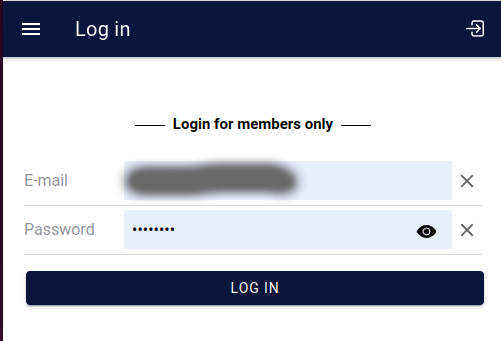
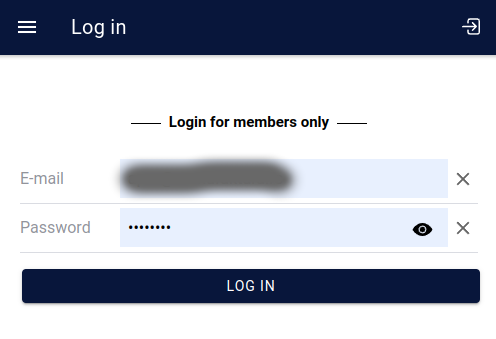
images changed

diff --git a/docs/source/viewer.rst b/docs/source/viewer.rst
@@ -15,7 +15,7 @@ When configuring the application, it is possible to allow users to log in with a
 .. figure:: images/Login.png
    :name: login
    :align: center
-   :width: 8cm
+   :width: 10cm
 
    Login screen
 
